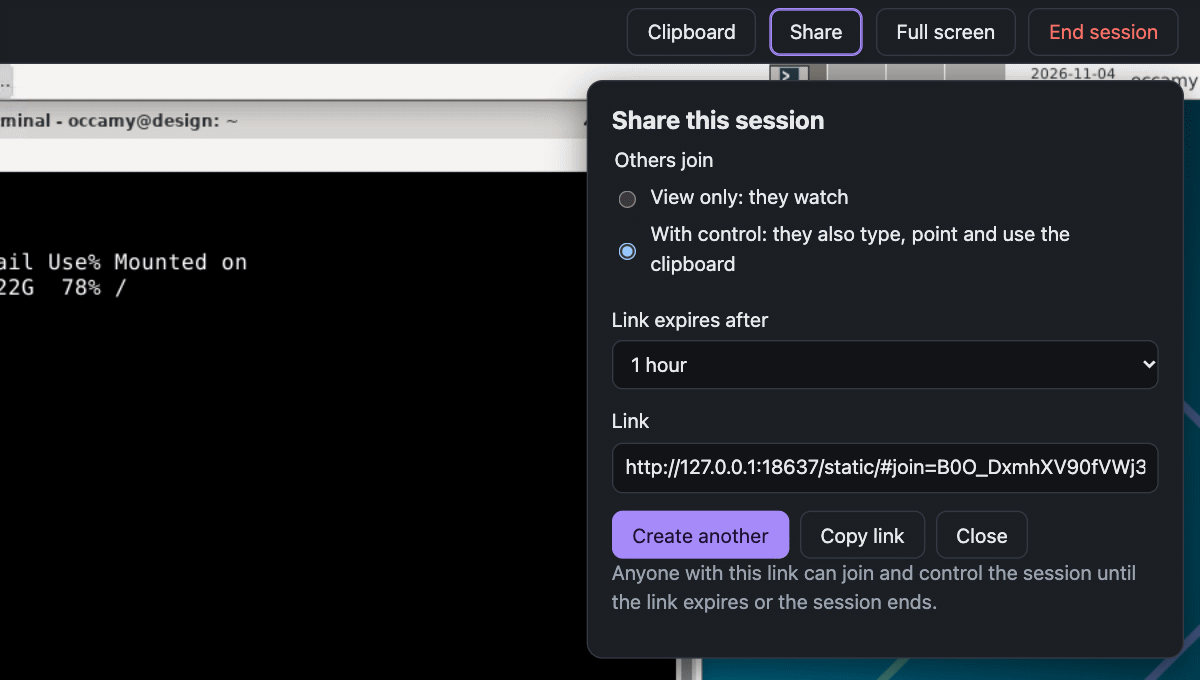
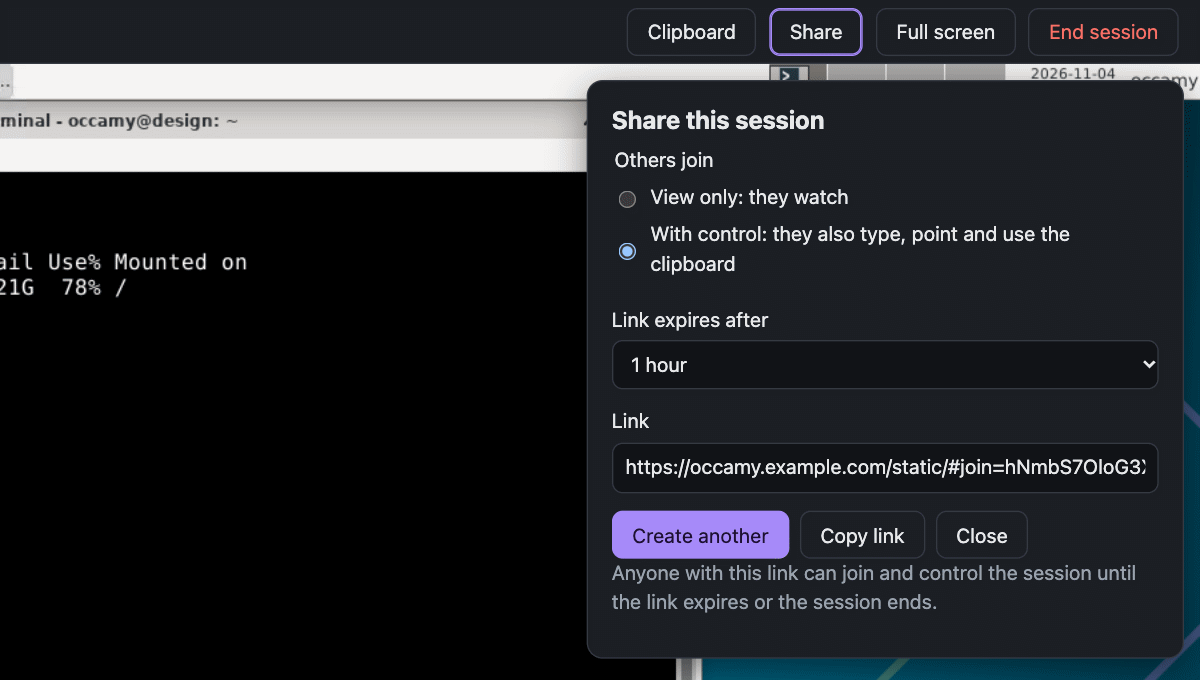
docs: retake the web client's prompt and share screenshots at a deployment's addresses
The prompt named the test server's port, localhost:18690, and the share
link the test server's origin, 127.0.0.1:18637. They now show what a
reader of Try Occamy sees, desktop:5900, and a link on
https://occamy.example.com.

Changed region(s): [[0.555, 0.6794, 0.9558, 0.7103], [0.0, 0.4015, 0.0308, 0.4324]]

diff --git a/docs/web-client.md b/docs/web-client.md
@@ -98,7 +98,7 @@ else in the session sees the question.
 
 <picture>
   <source media="(prefers-color-scheme: dark)" srcset="figures/web-client-prompt-dark.png">
-  <img alt="A dialog over a session that is still connecting, headed The remote computer needs more information, with the line VNC password for localhost:18690, a Password field, and the buttons Continue and End session." src="figures/web-client-prompt.png">
+  <img alt="A dialog over a session that is still connecting, headed The remote computer needs more information, with the line VNC password for desktop:5900, a Password field, and the buttons Continue and End session." src="figures/web-client-prompt.png">
 </picture>
 
 ## Work in a session
@@ -256,7 +256,7 @@ with you, through a link:
 
 <picture>
   <source media="(prefers-color-scheme: dark)" srcset="figures/web-client-share-dark.png">
-  <img alt="The share panel, open below the bar's Share button over a desktop session. Under Share this session, Others join offers View only: they watch and With control: they also type, point and use the clipboard, which is chosen. Link expires after is set to 1 hour. The Link field holds a link to the web client that ends in #join= and the share. Below are the buttons Create another, Copy link and Close, and the line Anyone with this link can join and control the session until the link expires or the session ends." src="figures/web-client-share.png">
+  <img alt="The share panel, open below the bar's Share button over a desktop session. Under Share this session, Others join offers View only: they watch and With control: they also type, point and use the clipboard, which is chosen. Link expires after is set to 1 hour. The Link field holds the link https://occamy.example.com/static/#join= followed by the share. Below are the buttons Create another, Copy link and Close, and the line Anyone with this link can join and control the session until the link expires or the session ends." src="figures/web-client-share.png">
 </picture>
 
 The panel then says what the link allows: "Anyone with this link can
